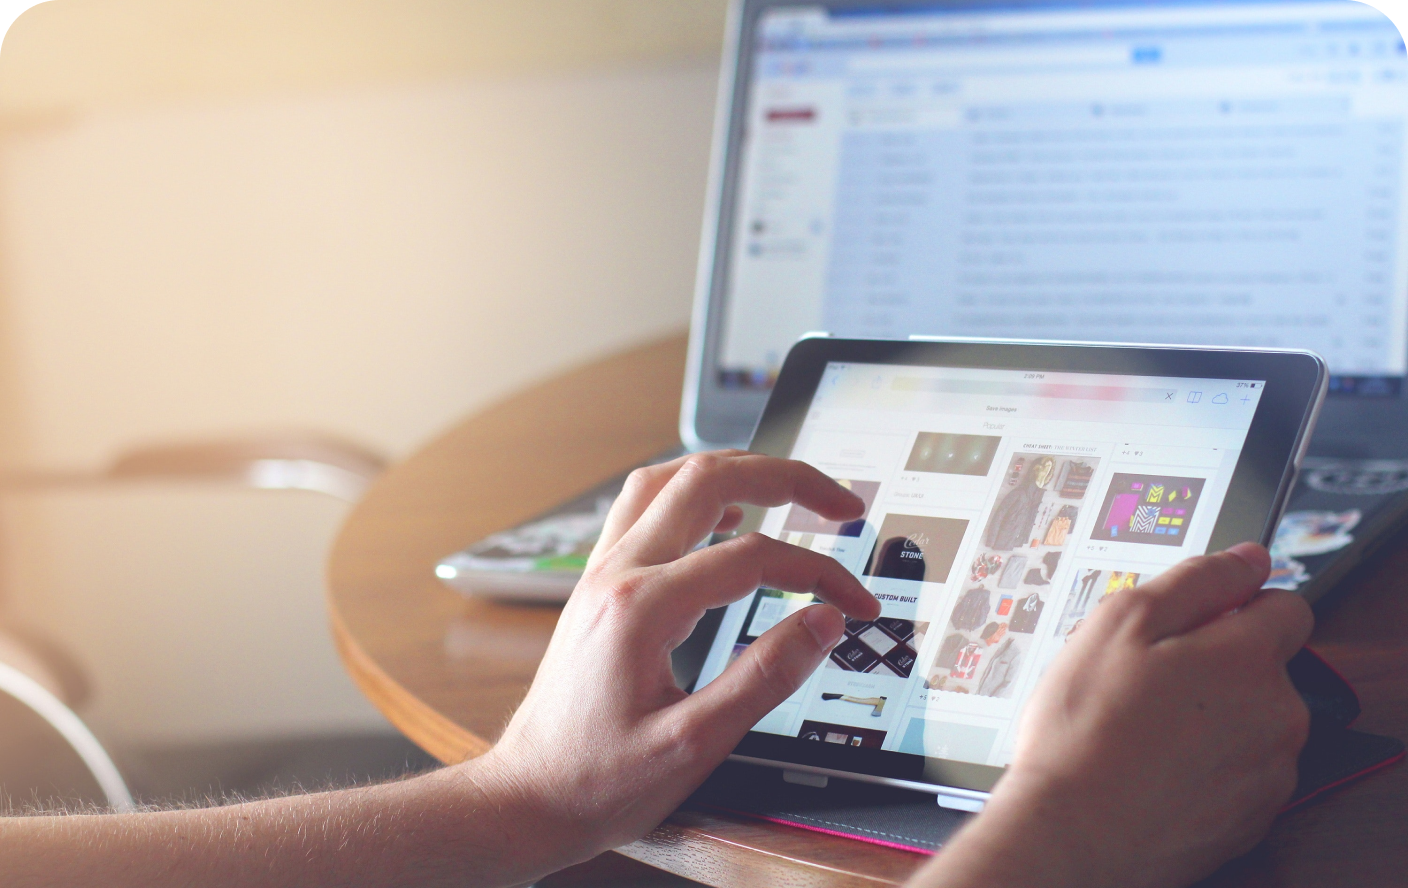
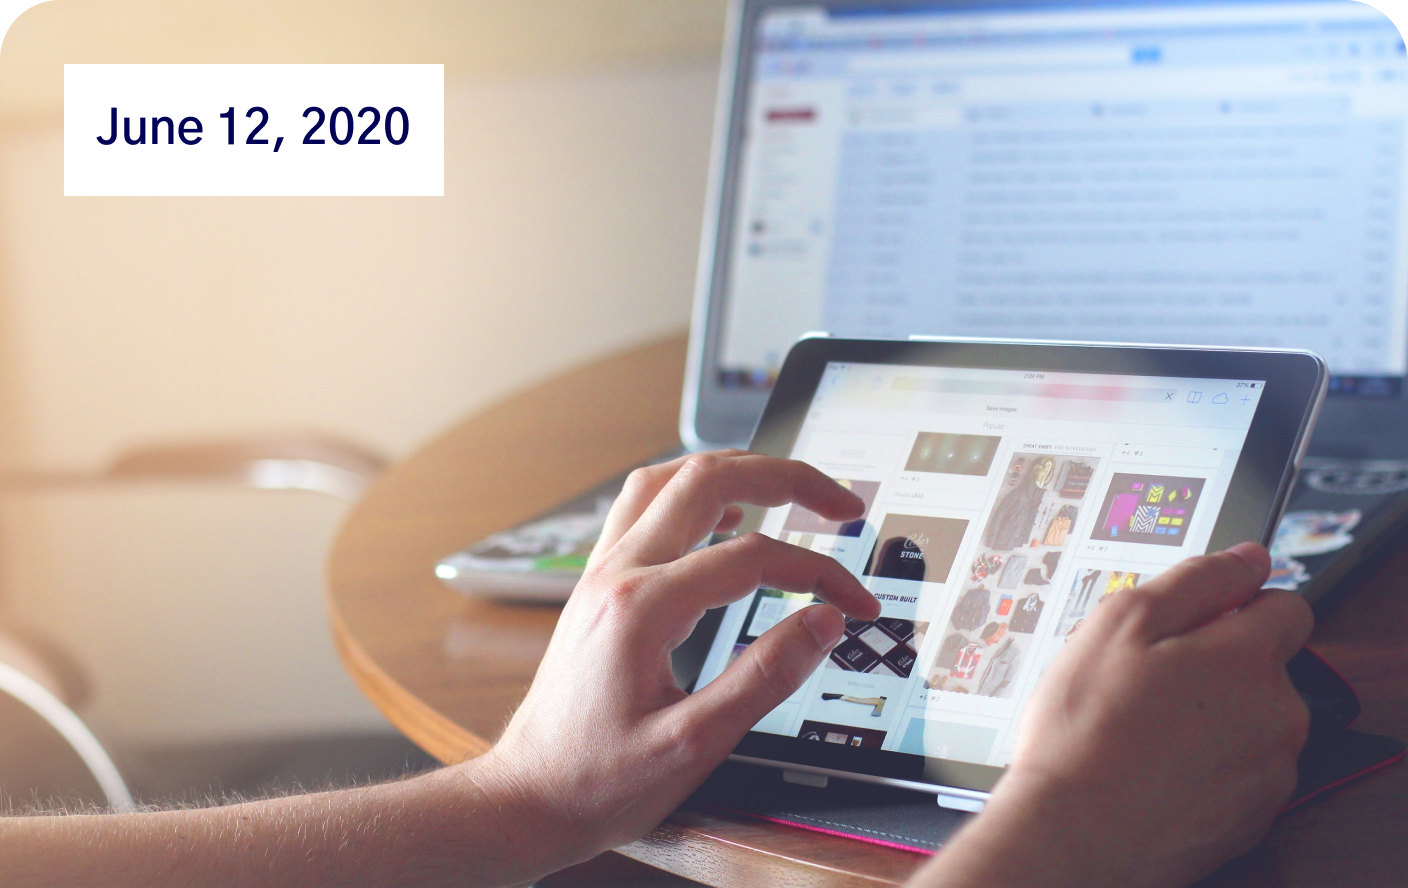
update date on blog

Changed region(s): [[0.0312, 0.0608, 0.3125, 0.2432]]

diff --git a/css/style.css b/css/style.css
@@ -2608,6 +2608,17 @@ input[type=text] {
   text-decoration: none;
 }
 
+.whats-trending .card-image {
+  position: relative;
+  text-align: center;
+}
+
+.blog-date {
+  position: absolute;
+  background: white;
+  width: 40px;
+}
+
 #read-more {
   color: #010155;
   font-size: 18px;
